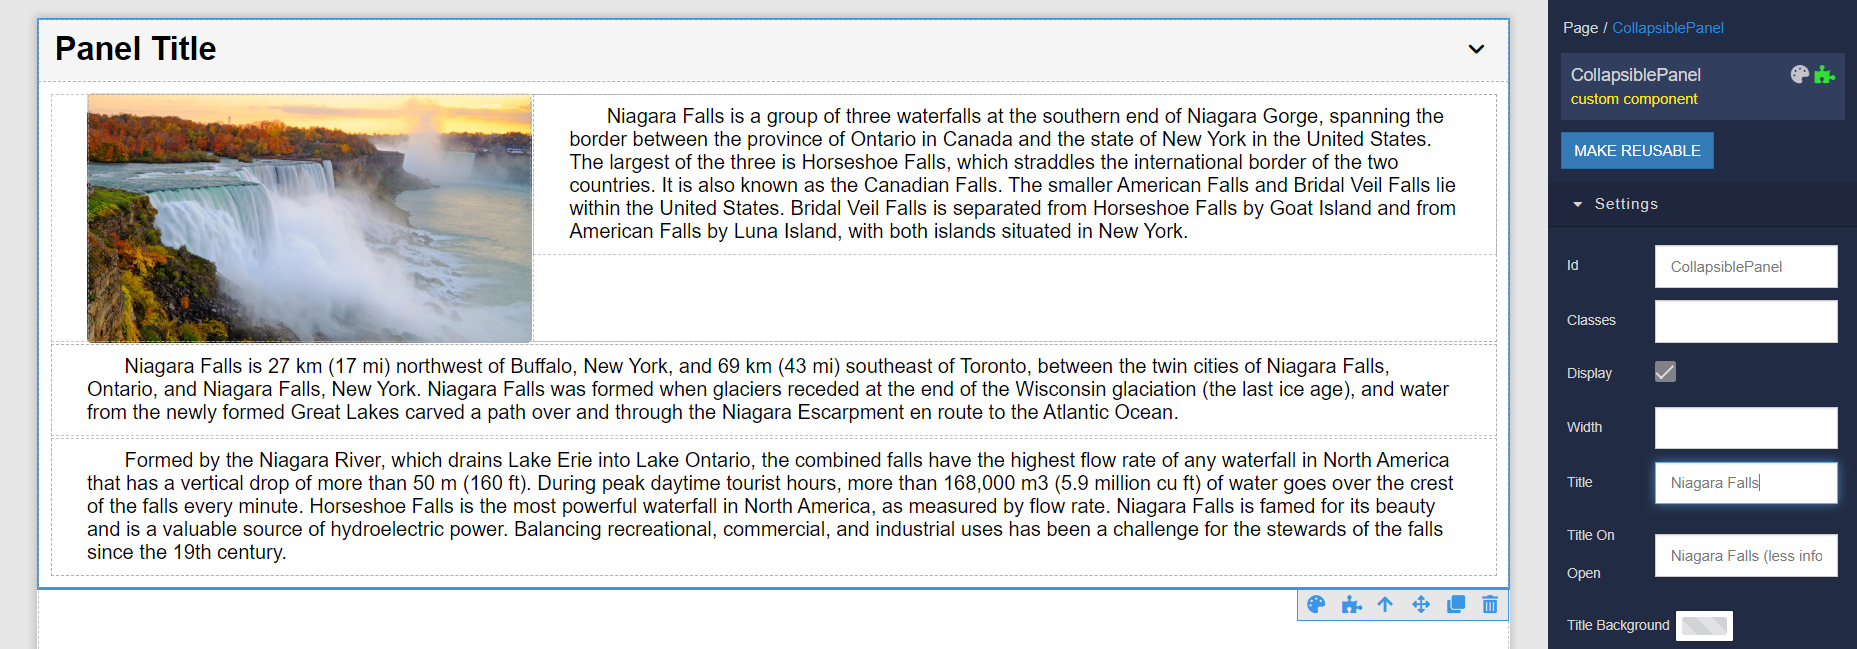
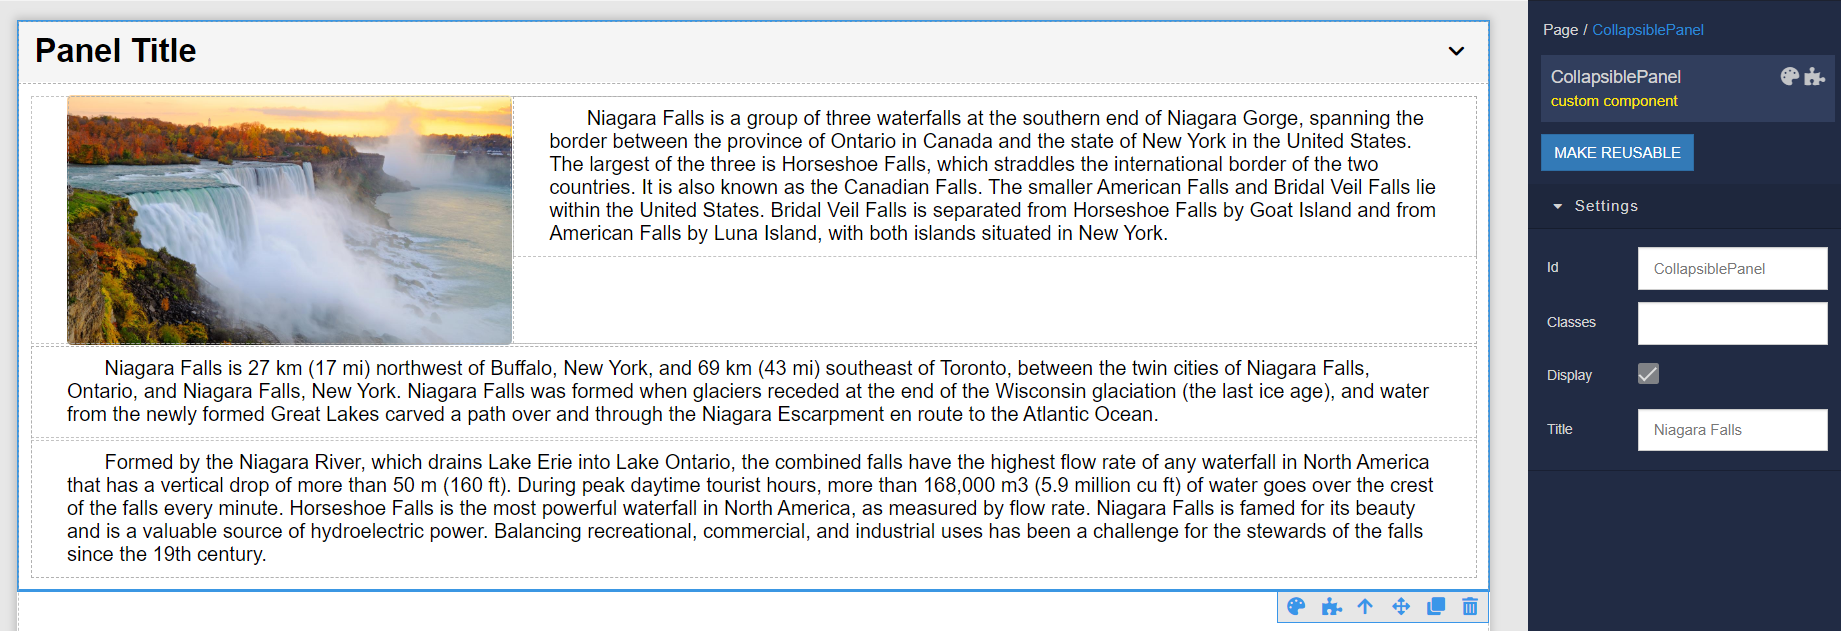
refactoring

diff --git a/components/bl-collapsiblePanel-component/src/index.js b/components/bl-collapsiblePanel-component/src/index.js
@@ -1,36 +1,32 @@
-import { useMemo, useState } from 'react';
+import { useCallback, useState } from 'react';
 
 const { cn } = BackendlessUI.CSSUtils;
 
 export default function CollapsiblePanelComponent({ component, elRef, eventHandlers, pods }) {
-  const { classList, style, display, title, activeTitle } = component;
+  const { classList, style, display, title } = component;
   const { onOpen, onClose } = eventHandlers;
 
   const [isActive, setIsActive] = useState(false);
   const [podClass, setPodClass] = useState('');
 
-  const togglePanel = activeState => {
-    if(activeState) {
-      setIsActive(false);
-      setPodClass('close');
-      onClose();
-    } else {
-      setIsActive(true);
-      setPodClass('open');
-      onOpen();
-    }
-  };
+  const showContent = () => {
+    setIsActive(true);
+    setPodClass('open');
+    onOpen();
+  }
 
-  const titleToShow = useMemo(() => {
-    if (!title) {
-      return null;
-    }
+  const hideContent = () => {
+    setIsActive(false);
+    setPodClass('close');
+    onClose();
+  }
 
-    return isActive ? activeTitle || title : title;
-  }, [isActive, activeTitle, title]);
+  const togglePanel = useCallback(() => {
+    isActive ? hideContent() : showContent()
+  }, [isActive, hideContent, showContent]);
 
-  component.show = () => togglePanel();
-  component.hide = () => togglePanel(true);
+  component.show = showContent;
+  component.hide = hideContent;
 
   if (!display) {
     return null;
@@ -38,17 +34,15 @@ export default function CollapsiblePanelComponent({ component, elRef, eventHandl
 
   return (
     <div ref={ elRef } className={ cn('bl-customComponent-collapsiblePanel', ...classList) } style={ style }>
-      <PanelTitle title={ titleToShow } isActive={ isActive } onClick={ togglePanel } />
-      <div className={ cn('panel-content', podClass) }>
-        { pods['panelContent'].render() }
-      </div>
+      <PanelTitle title={ title } isActive={ isActive } onClick={ togglePanel } />
+      <div className={ cn('panel-content', podClass) }>{ pods['panelContent'].render() }</div>
     </div>
   );
 }
 
-export function PanelTitle({ title, isActive, onClick }) {
+function PanelTitle({ title, isActive, onClick }) {
   return (
-    <div className="panel-title" aria-expanded={ isActive } role="button" onClick={ () => onClick(isActive) }>
+    <div className="panel-title" aria-expanded={ isActive } role="button" onClick={ onClick }>
       <span className="panel-title-text">{ title }</span>
       <CollapseIcon active={ isActive } />
     </div>

diff --git a/components/bl-collapsiblePanel-component/README.md b/components/bl-collapsiblePanel-component/README.md
@@ -11,7 +11,6 @@ CollapsiblePanel is the component that can be used in Backendless [UI-Builder](h
 | Property                        | Type   | Default value | Logic              | Data Binding | UI Setting | Description                                           |
 |---------------------------------|--------|---------------|--------------------|--------------|------------|-------------------------------------------------------|
 | Title <br> `title`              | *Text* | `Panel Title` | Title Logic        | YES          | YES        | The logic to determine the title of the panel.        |
-| Active Title <br> `activeTitle` | *Text* |               | Active Title Logic | YES          | YES        | The logic to determine the title on opened the panel. |
 
 ## Events
 
